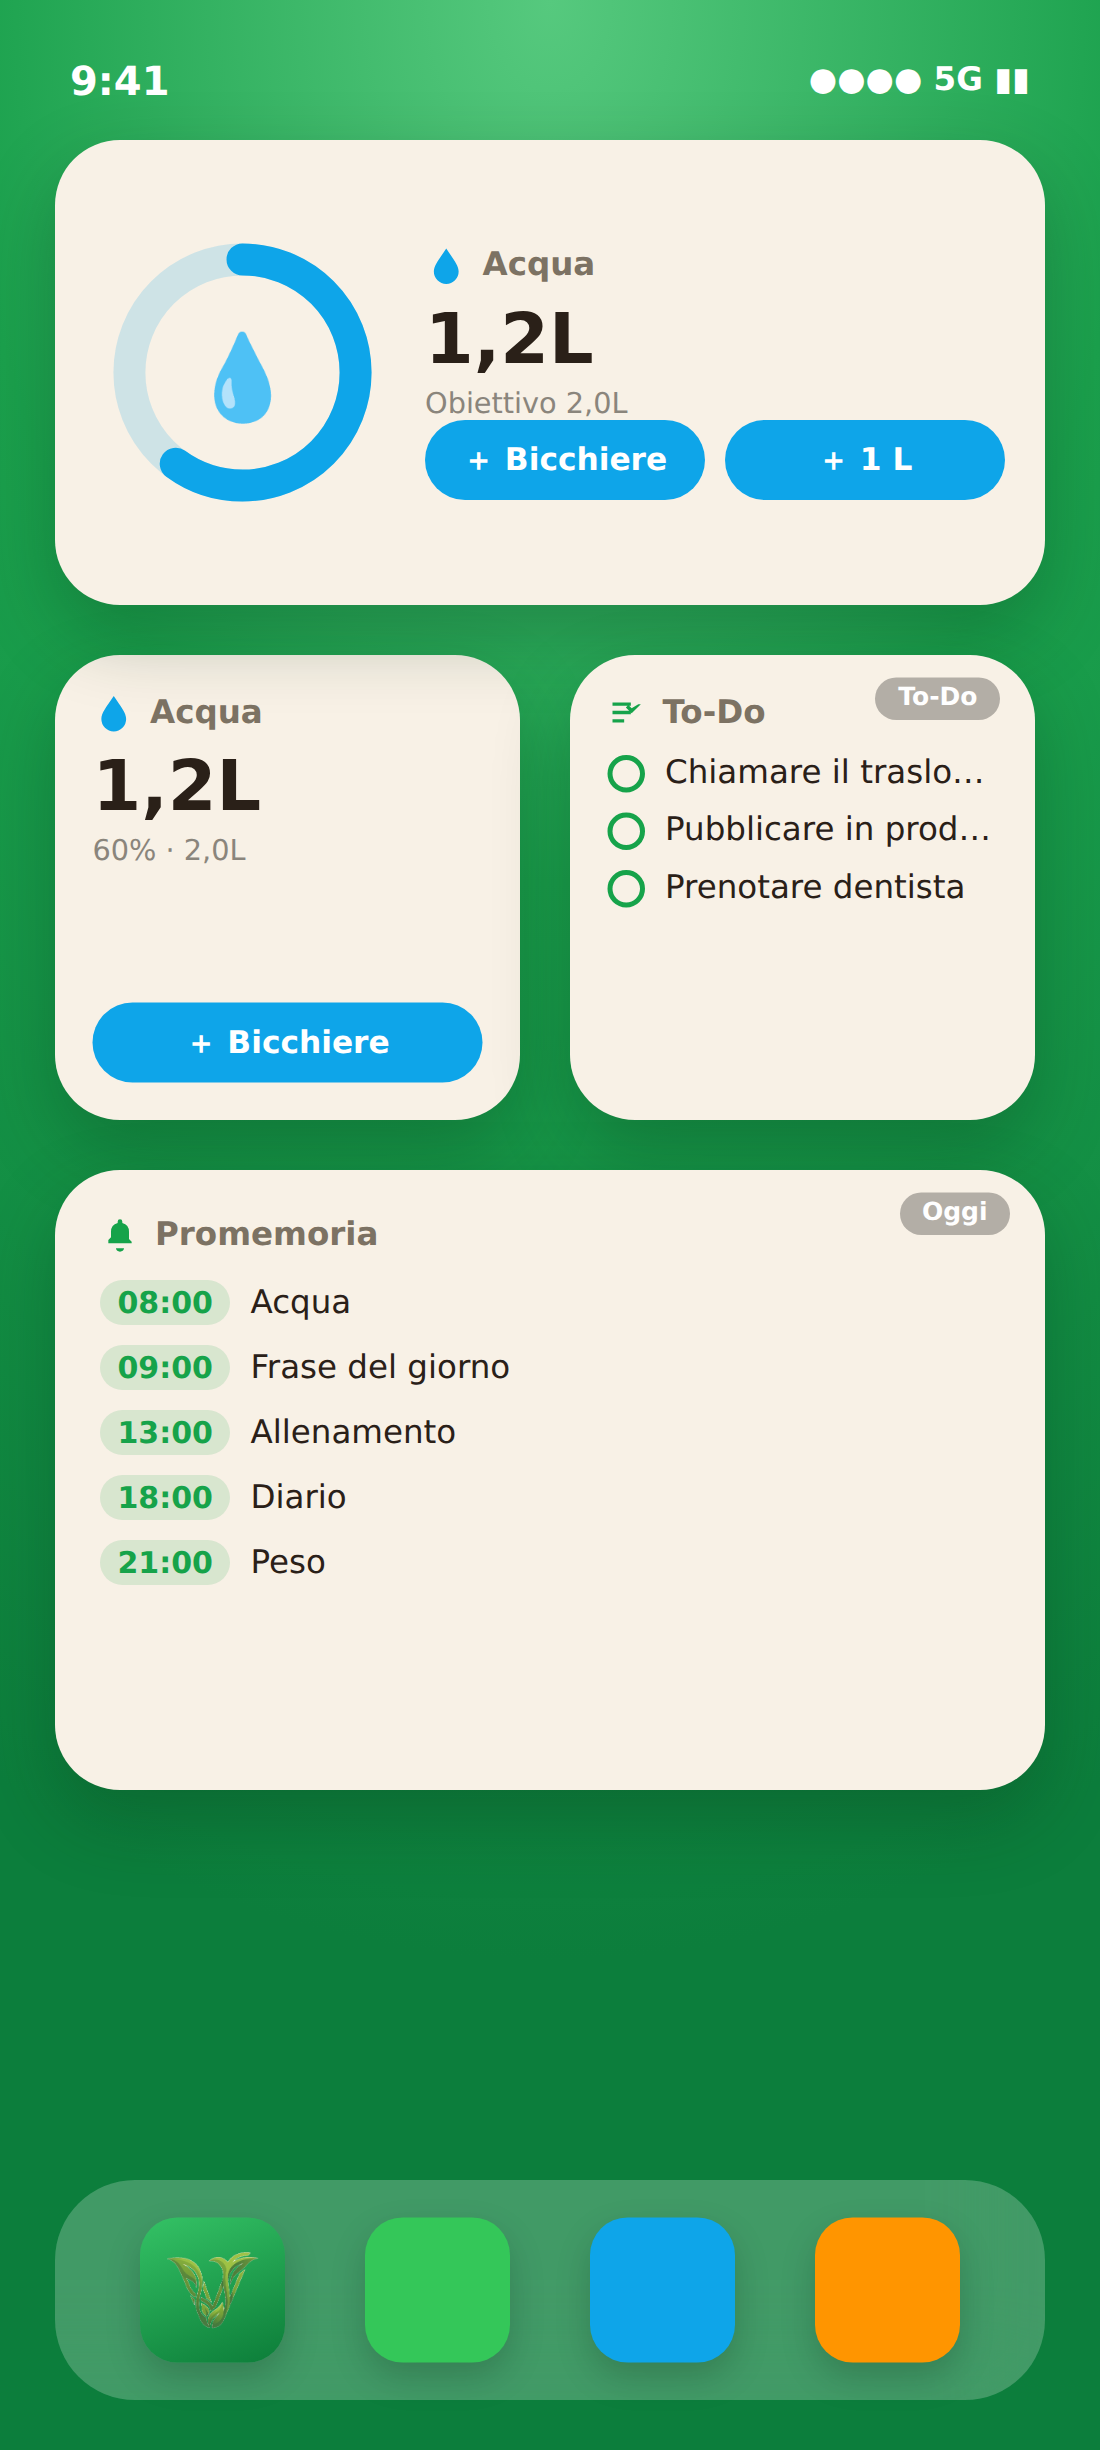
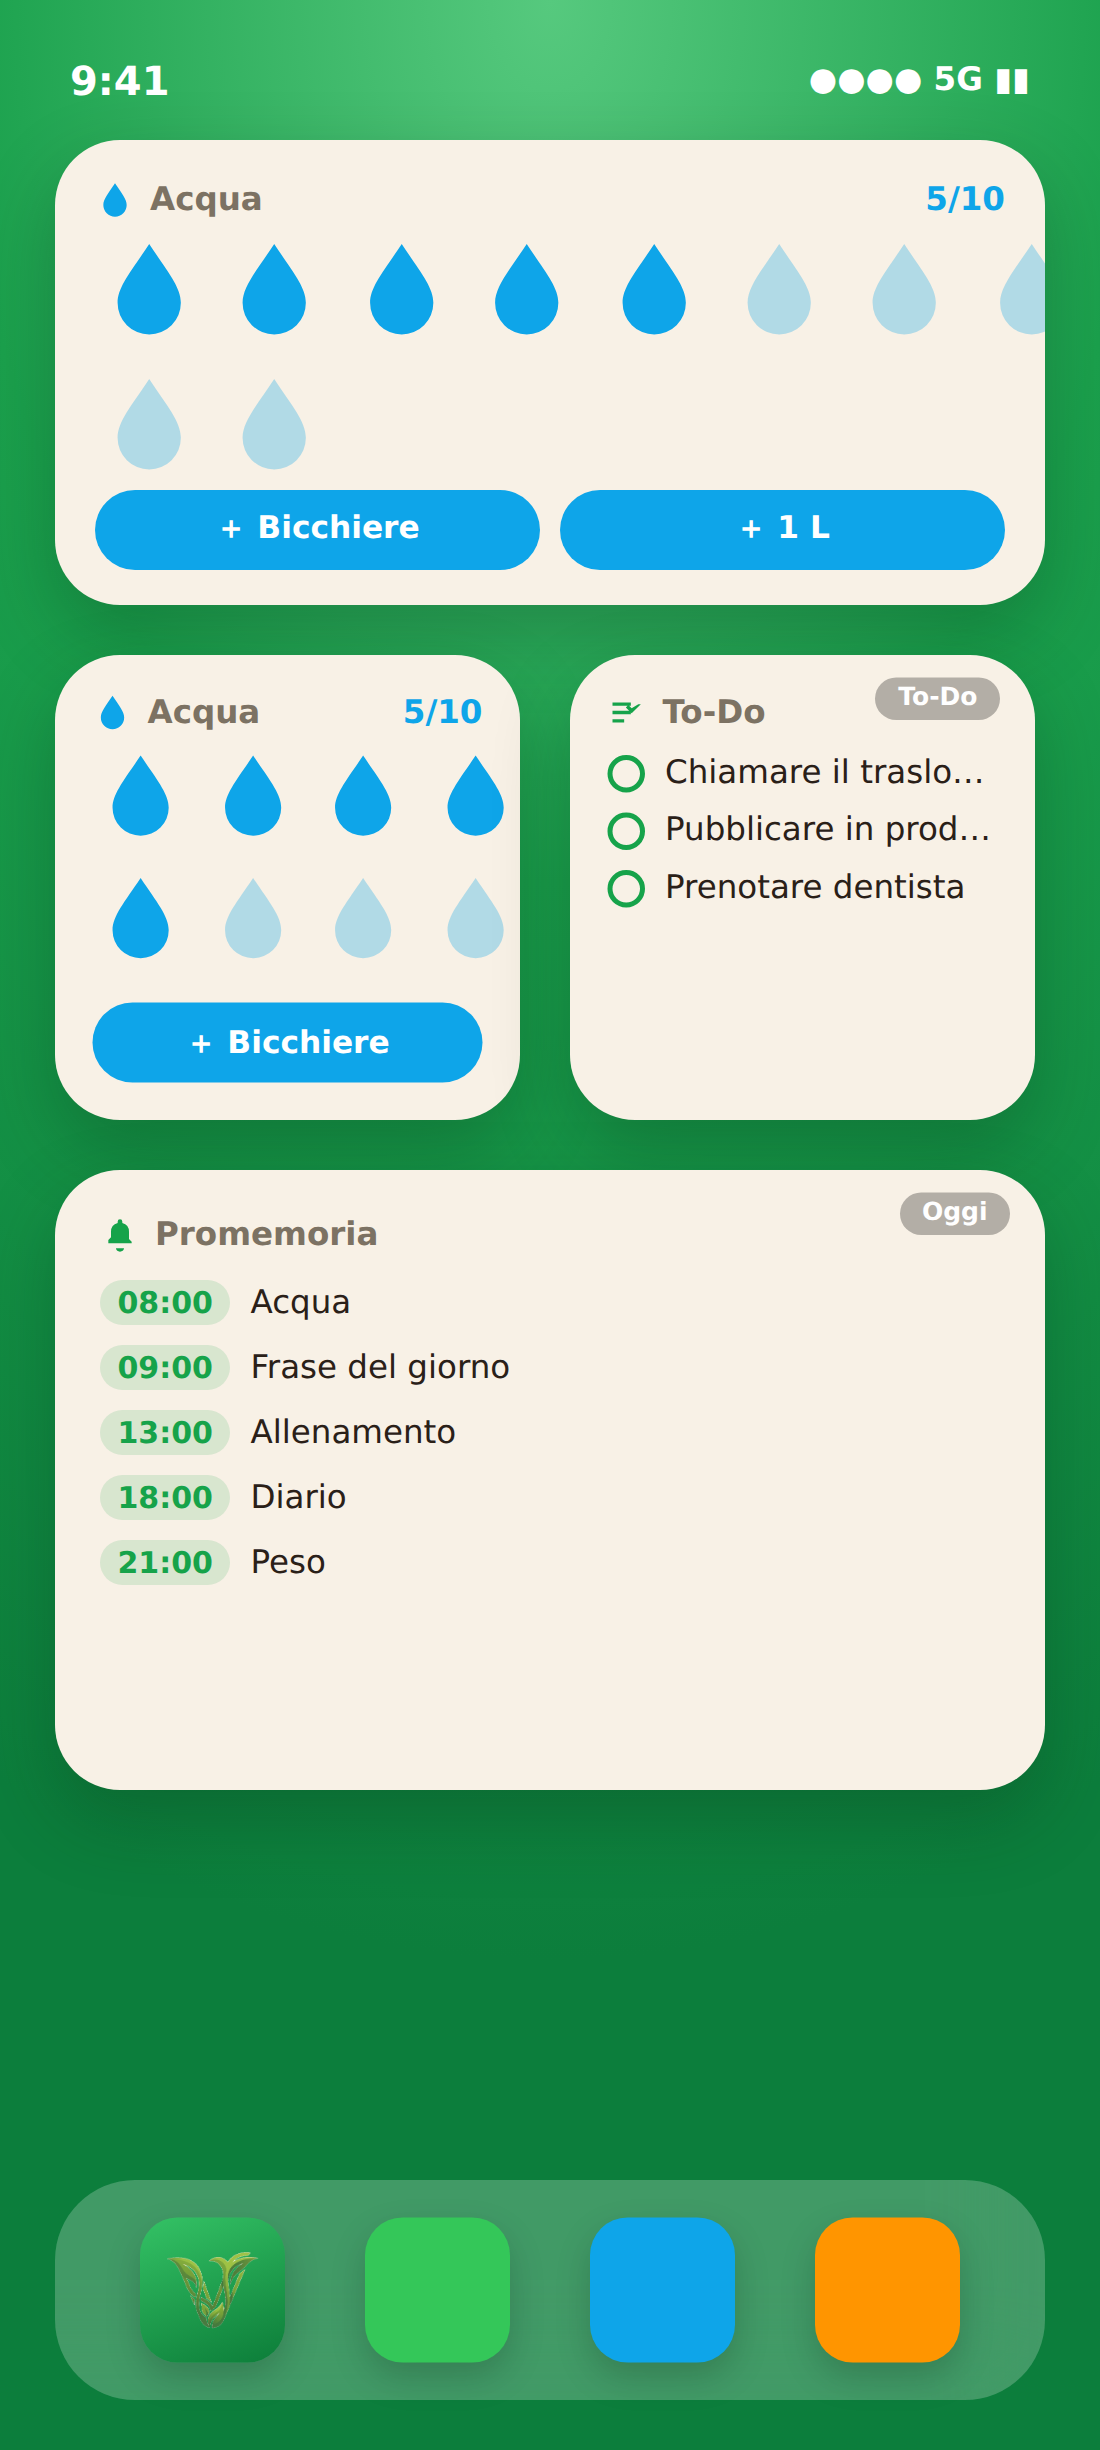
Water widget: drop-grid design (filled = consumed) matching the water screen

diff --git a/ios/widget/VytaWidgets.swift b/ios/widget/VytaWidgets.swift
@@ -168,11 +168,27 @@ struct WaterWidgetView: View {
     var progress: Double { data.water.goalMl > 0 ? min(1, Double(data.water.ml) / Double(data.water.goalMl)) : 0 }
     var glass: Int { data.water.glassMl ?? 200 }
     var glassLabel: String { L.t("Bicchiere", "Glass") }
+    var glasses: Int { max(1, data.water.goalMl / glass) }
+    var done: Int { data.water.ml / glass }
 
     var header: some View {
         HStack(spacing: 5) {
             Image(systemName: "drop.fill").foregroundColor(vBlue)
-            Text(L.t("Acqua", "Water")).font(.caption).bold().foregroundColor(.secondary); Spacer()
+            Text(L.t("Acqua", "Water")).font(.caption).bold().foregroundColor(.secondary)
+            Spacer()
+            Text("\(done)/\(glasses)").font(.caption).bold().foregroundColor(vBlue)
+        }
+    }
+
+    // Grid of drops: filled = consumed, outline = remaining.
+    func drops(cols: Int, cap: Int, size: CGFloat) -> some View {
+        let shown = min(glasses, cap)
+        return LazyVGrid(columns: Array(repeating: GridItem(.flexible(), spacing: 5), count: cols), spacing: 5) {
+            ForEach(0..<shown, id: \.self) { i in
+                Image(systemName: i < done ? "drop.fill" : "drop")
+                    .font(.system(size: size))
+                    .foregroundColor(i < done ? vBlue : vBlue.opacity(0.35))
+            }
         }
     }
 
@@ -181,30 +197,26 @@ struct WaterWidgetView: View {
         case .accessoryCircular:
             Gauge(value: progress) { Image(systemName: "drop.fill") }.gaugeStyle(.accessoryCircular)
         case .systemMedium:
-            HStack(spacing: 16) {
-                WaterRing(progress: progress, size: 84)
-                VStack(alignment: .leading, spacing: 5) {
-                    header
-                    Text(litersStr(data.water.ml)).font(.system(size: 26, weight: .heavy)).foregroundColor(vInk)
-                    Text("\(L.t("Obiettivo", "Goal")) \(litersStr(data.water.goalMl))").font(.caption2).foregroundColor(.secondary)
-                    HStack(spacing: 8) { addButton(glass, glassLabel); addButton(1000, "1 L") }
-                }
+            VStack(alignment: .leading, spacing: 8) {
+                header
+                drops(cols: 8, cap: 16, size: 17)
+                Spacer(minLength: 2)
+                HStack(spacing: 8) { addButton(glass, glassLabel); addButton(1000, "1 L") }
             }.padding()
         case .systemLarge:
-            VStack(spacing: 12) {
+            VStack(alignment: .leading, spacing: 12) {
                 header
-                WaterRing(progress: progress, size: 150)
-                Text(litersStr(data.water.ml) + " / " + litersStr(data.water.goalMl)).font(.system(size: 26, weight: .heavy)).foregroundColor(vInk)
-                Text("\(Int(progress * 100))% · \(data.water.ml / max(glass,1)) \(glassLabel.lowercased())").font(.subheadline).foregroundColor(.secondary)
+                Text("\(done) \(L.t("di", "of")) \(glasses) \(glassLabel.lowercased())\(glasses == 1 ? "" : (L.isIT ? "" : "es"))")
+                    .font(.system(size: 22, weight: .heavy)).foregroundColor(vInk)
+                drops(cols: 8, cap: 32, size: 22)
                 Spacer()
                 HStack(spacing: 10) { addButton(glass, glassLabel); addButton(1000, "1 L") }
             }.padding()
-        default:
+        default: // systemSmall
             VStack(alignment: .leading, spacing: 6) {
                 header
-                Text(litersStr(data.water.ml)).font(.system(size: 28, weight: .heavy)).foregroundColor(vInk)
-                Text("\(Int(progress * 100))% · \(litersStr(data.water.goalMl))").font(.caption2).foregroundColor(.secondary)
-                Spacer()
+                drops(cols: 4, cap: 8, size: 15)
+                Spacer(minLength: 2)
                 addButton(glass, glassLabel)
             }.padding()
         }
